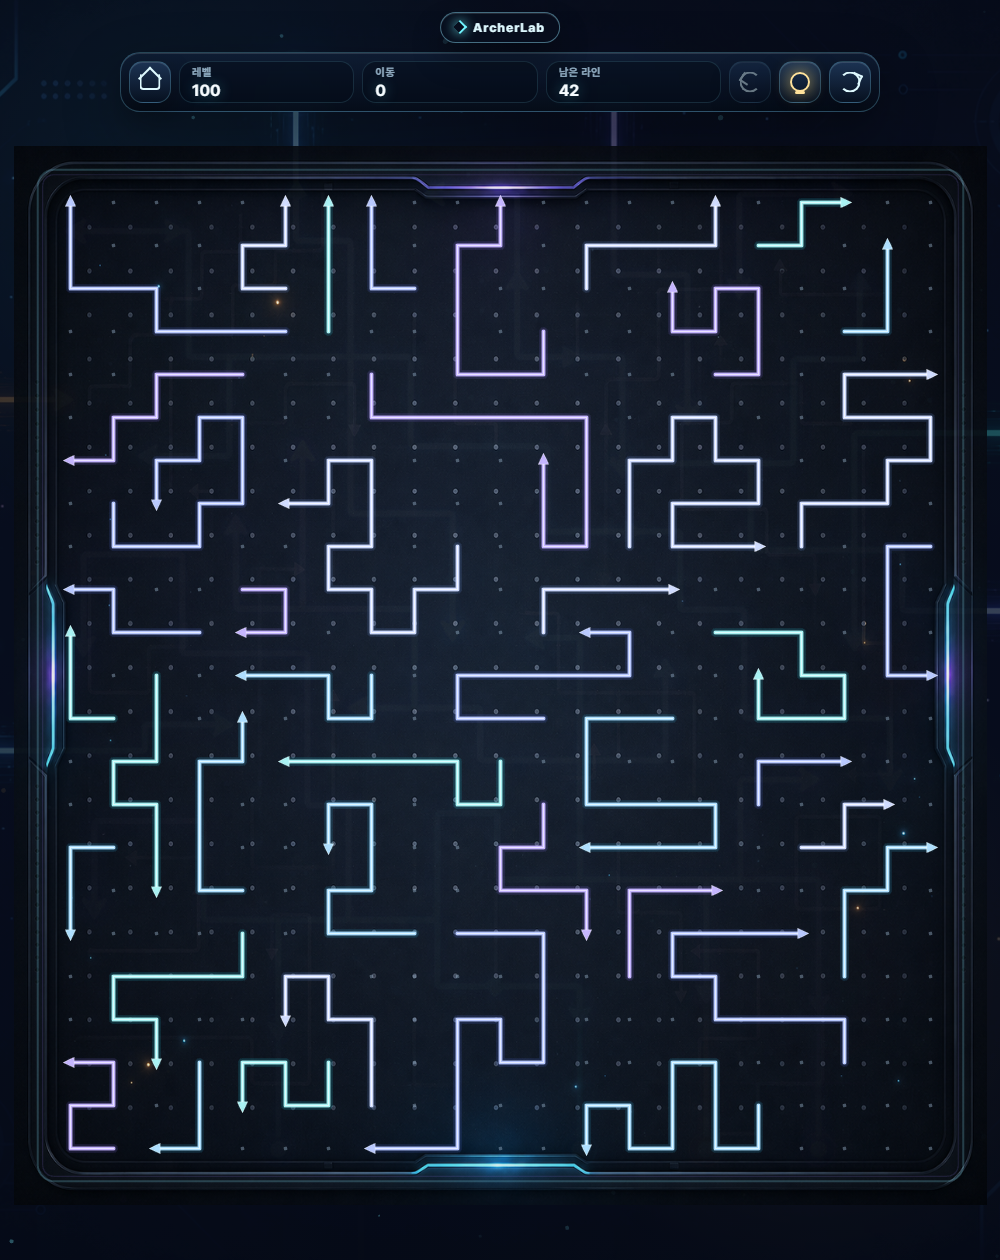
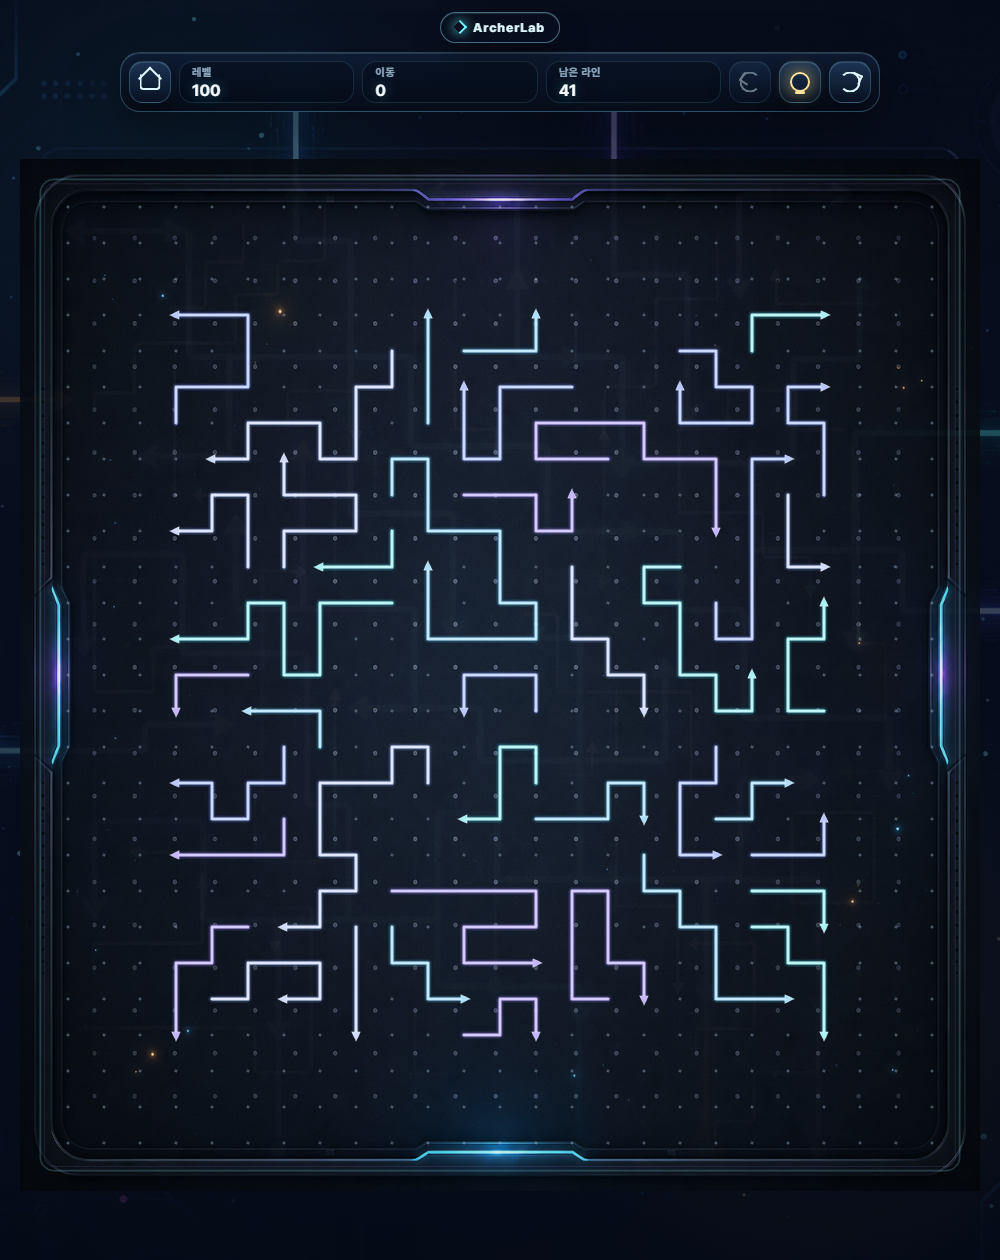
Tighten arrows puzzle weave density

Changed region(s): [[0.031, 0.0929, 0.992, 0.9595]]

diff --git a/arrows/js/main.js b/arrows/js/main.js
@@ -362,7 +362,7 @@
       const side = width < 620 ? 18 : 44;
       const availableW = width - side * 2;
       const availableH = height - topSafe - bottomSafe;
-      const minCell = width < 620 ? 16 : 22;
+      const minCell = width < 620 ? 12 : 22;
       this.cell = Math.max(minCell, Math.floor(Math.min(availableW / this.gridW, availableH / this.gridH)));
       this.boardW = this.cell * this.gridW;
       this.boardH = this.cell * this.gridH;
@@ -429,7 +429,7 @@
       container.pieceId = piece.id;
       piece.container = container;
 
-      container.hitArea = new PathHitArea(piece.cells, this.cell, Math.max(7, this.cell * 0.17));
+      container.hitArea = new PathHitArea(piece.cells, this.cell, Math.max(5, this.cell * 0.18));
 
       const glow = new PIXI.Graphics();
       drawPath(glow, piece.cells, this.cell, color.glow, Math.max(5, this.cell * 0.2), 0.15);
@@ -795,24 +795,30 @@
     const tunedLevel = Math.min(rawLevel, DIFFICULTY_CAP_LEVEL);
     const progress = DIFFICULTY_CAP_LEVEL <= 1 ? 1 : clamp((tunedLevel - 1) / (DIFFICULTY_CAP_LEVEL - 1), 0, 1);
     const curve = Math.pow(progress, 0.74);
-    const gridW = Math.min(21, 9 + Math.floor(progress * 12));
-    const gridH = Math.min(23, 11 + Math.floor(progress * 12));
-    const fillRatio = 0.47 + curve * 0.2;
+    const gridW = Math.min(25, 9 + Math.floor(progress * 16));
+    const gridH = Math.min(27, 11 + Math.floor(progress * 16));
+    const clusterInsetX = Math.round(curve * 3);
+    const clusterInsetY = Math.round(curve * 3);
+    const activeW = gridW - clusterInsetX * 2;
+    const activeH = gridH - clusterInsetY * 2;
+    const fillRatio = 0.47 + curve * 0.26;
     const maxLength = Math.min(16, Math.round(5 + progress * 4 + curve * 7));
 
     return {
       gridW,
       gridH,
-      target: Math.min(68, Math.round(13 + progress * 36 + curve * 21)),
-      targetCells: Math.round(gridW * gridH * fillRatio),
+      target: Math.min(74, Math.round(13 + progress * 40 + curve * 23)),
+      targetCells: Math.round(activeW * activeH * fillRatio),
       targetSlack: Math.floor(maxLength * curve * 0.72),
+      clusterInsetX,
+      clusterInsetY,
       minLength: progress < 0.48 ? 2 : progress < 0.78 ? 3 : 4,
       maxLength,
       turnBias: 0.42 + curve * 0.36,
-      attemptsPerPiece: 380 + Math.floor(curve * 130),
-      minFillCompletion: 0.9,
-      stallLimit: 720 + Math.floor(curve * 460),
-      placementTries: 19 + Math.floor(progress * 8 + curve * 11),
+      attemptsPerPiece: 190 + Math.floor(curve * 70),
+      minFillCompletion: 0.86,
+      stallLimit: 360 + Math.floor(curve * 260),
+      placementTries: 15 + Math.floor(progress * 5 + curve * 6),
       clusterBias: 0.86 + curve * 0.11,
       centerBias: 0.44 + curve * 0.2,
       weaveBias: 1.1 + curve * 1.45,
@@ -820,20 +826,23 @@
   }
 
   function chooseShapeOrigin(shape, bounds, pieces, gridW, gridH, rng, config) {
-    const maxX = gridW - bounds.w;
-    const maxY = gridH - bounds.h;
+    const placement = getPlacementBounds(bounds, gridW, gridH, config);
+    const minX = placement.minX;
+    const minY = placement.minY;
+    const maxX = placement.maxX;
+    const maxY = placement.maxY;
     if (!pieces.length || !rng.chance(config.clusterBias)) {
-      const centerX = Math.round((gridW - bounds.w) / 2);
-      const centerY = Math.round((gridH - bounds.h) / 2);
+      const centerX = Math.round((minX + maxX) / 2);
+      const centerY = Math.round((minY + maxY) / 2);
       if (rng.chance(config.centerBias)) {
         return {
-          x: clamp(centerX + rng.int(-3, 3), 0, maxX),
-          y: clamp(centerY + rng.int(-3, 3), 0, maxY),
+          x: clamp(centerX + rng.int(-2, 2), minX, maxX),
+          y: clamp(centerY + rng.int(-2, 2), minY, maxY),
         };
       }
       return {
-        x: rng.int(0, maxX),
-        y: rng.int(0, maxY),
+        x: rng.int(minX, maxX),
+        y: rng.int(minY, maxY),
       };
     }
 
@@ -851,9 +860,19 @@
       { x: 0, y: 0 },
     ]);
     return {
-      x: clamp(anchor.x + offset.x - source.x, 0, maxX),
-      y: clamp(anchor.y + offset.y - source.y, 0, maxY),
+      x: clamp(anchor.x + offset.x - source.x, minX, maxX),
+      y: clamp(anchor.y + offset.y - source.y, minY, maxY),
     };
+  }
+
+  function getPlacementBounds(bounds, gridW, gridH, config) {
+    const insetX = Math.min(config.clusterInsetX || 0, Math.floor((gridW - bounds.w) / 2));
+    const insetY = Math.min(config.clusterInsetY || 0, Math.floor((gridH - bounds.h) / 2));
+    const minX = Math.max(0, insetX);
+    const minY = Math.max(0, insetY);
+    const maxX = Math.max(minX, gridW - bounds.w - insetX);
+    const maxY = Math.max(minY, gridH - bounds.h - insetY);
+    return { minX, minY, maxX, maxY };
   }
 
   function scorePlacement(cells, pieces, gridW, gridH, config) {
